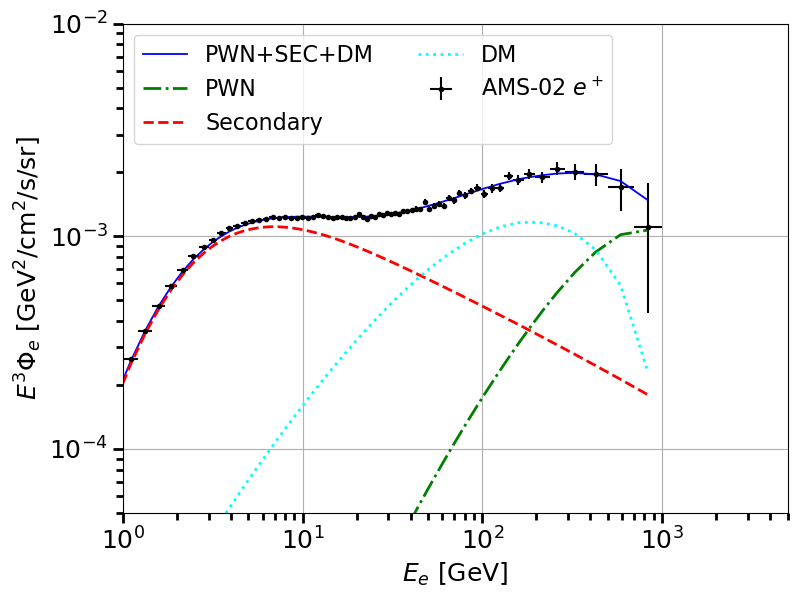
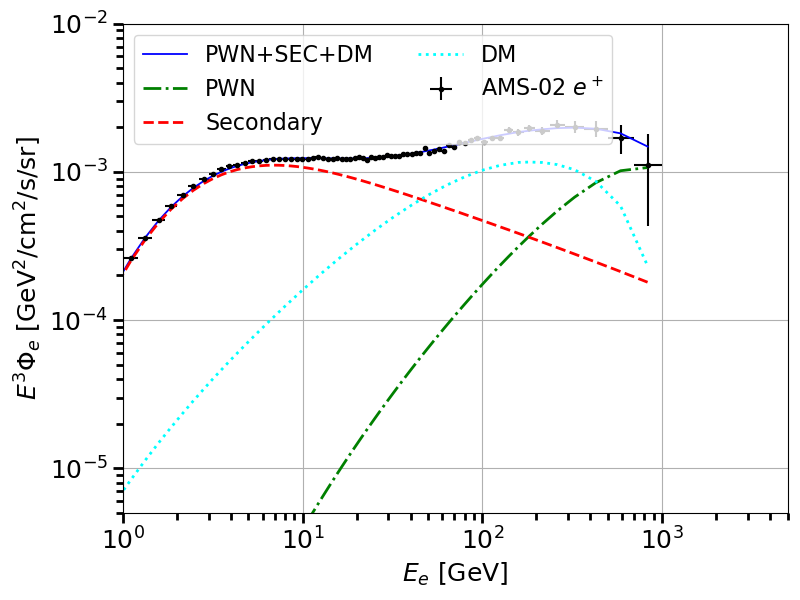
Finish debugging AMS_DM_SimpleFit.py--results look good.

diff --git a/PWNs_Positron_Excess/debug.py b/PWNs_Positron_Excess/debug.py
@@ -1,200 +1,94 @@
-from scipy.integrate import quad
-from math import *
-import matplotlib.pyplot as pl
-from scipy.interpolate import interp1d
-from scipy.interpolate import interp2d
+'''
+    Tao You
+    4/14/2021
+    --This file calculates a simple multichannel fit of positron product from dark matter annihilation to the AMS-02 data
+'''
 import numpy as np
-
-# Constants
-pigreco = 3.141592653589793
-sigmat = 0.665 * pow(10., -24.)  # cm^2
-cluce = 29979245800.  # cm/s
-ht = 6.582119 * pow(10., -16.) * pow(10., -9.)  # GEV*S
-hp = 4.13566 * 1e-15 * 1e-9  # GEV*S
-htc = ht * cluce
-kbol = 8.61734 * pow(10., -5.) * pow(10., -9.)
-echarge = 4.8032068e-10  # esu
-h_erg = 6.6260755e-27  # erg*s
-emass_g = 9.1093897e-28  # g
-Gauss = pow(6.24142 * pow(10., 11.) * pow(10., -9.), 1. / 2.)
-mc = 0.000511  # GeV
-kpc = pow(10., 3.) * 3.0856775 * pow(10., 18.)  # cm
-erg = 6.2415097e2  # GeV
-kyr = 24. * 60. * 60. * 365. * pow(10., 3.)  # s
-kb = 8.61734 * pow(10., -5.) * pow(10., -9.)  # GeV
-me = 0.000511  # GeV
-srdeg = pow(180. / np.pi, 2.)
-amu = 1.66054 * 1e3 * 1e-27  # g
-alphaf = 7.29735e-3
-rodot = 8.33 * kpc  # cm
-rhodot = 0.4  # GeV/cm^3
-
-table = np.loadtxt('DMfluxes_positrons_cleaned_NFW_MED_MF2.txt')
+import math
+import AMS_DM_model as DM
+import AMS_model as PWN
+from iminuit import Minuit
+import os
+import shutil
+import matplotlib.pyplot as pl
 
 
-###DENSITY###
+# Determine the channels we would like to fit
+#e 7, mu 10, tau 13, bb 16, tt 17, WW 20, ZZ 23, gamma 25, h 26
+channel_arr = np.array([16, 10, 13])
 
-def DMdensity_funcdist(dist, DMdensity):
-    rhos = DMdensity[0]
-    rs = DMdensity[1]
-    gammas = DMdensity[2]
-    profile = DMdensity[3]
+# Define necessary constants for PWN component
 
-    rho = 0.
-    if profile == 'gNFW':
-        # rho = (rhos/rhodot)/( pow(dist/rs,gammas)*pow(1.+dist/rs,3.-gammas) )
-        rho = (rhos) / (pow(dist / rs, gammas) * pow(1. + dist / rs, 3. - gammas))
-    if profile == 'NFW':
-        # rho = (rhos/rhodot)/( pow(dist/rs,1.0)*pow(1.+dist/rs,3.-1.0) )
-        rho = (rhos) / (pow(dist / rs, 1.0) * pow(1. + dist / rs, 3. - 1.0))
-    elif profile == 'Einasto':
-        # rho = (rhos/rhodot)*exp( (-2./gammas)*(pow(dist/rs,gammas) -1.) )
-        rho = (rhos) * exp((-2. / gammas) * (pow(dist / rs, gammas) - 1.))
-    elif profile == 'Burkert':
-        # rho = (rhos/rhodot)/(pow(1.+dist/rs,2.-gammas)*(1.+ pow(dist/rs,3.-gammas)))
-        rho = (rhos) / (pow(1. + dist / rs, 2. - gammas) * (1. + pow(dist / rs, 3. - gammas)))
+kpc = 3.09e18
+kyr = 1000*365*24*3600
+E_range = np.power(10.,np.arange(math.log10(1.),math.log10(1e5)+0.1,0.1)) #GeV
+d = 0.5*kpc #kpc
+T = 100*kyr #age in kyrs
+E_c = 1000 #cutoff energy in GeV
+gamma = 1.8
+tau_0 = 10*kyr #kyr
+E_dot = 1e35 #spin-down luminosity in erg/s
+eta = 0.1 # flux conversion rate
+delta = 0.408
+k_0 = kpc**2*0.0967/(1.0e6*365*24*3600)
+alpha = 2
+b_0 = 1e-16
 
-    return rho
-
-
-def DMdensity_funcintegral(dist, DMdensity):
-    rhos = DMdensity[0]
-    rs = DMdensity[1]
-    gammas = DMdensity[2]
-    profile = DMdensity[3]
-
-    rho = 0.
-    if profile == 'gNFW':
-        # rho = (rhos/rhodot)/( pow(dist/rs,gammas)*pow(1.+dist/rs,3.-gammas) )
-        rho = (rhos) / (pow(dist / rs, gammas) * pow(1. + dist / rs, 3. - gammas))
-    if profile == 'NFW':
-        # rho = (rhos/rhodot)/( pow(dist/rs,1.0)*pow(1.+dist/rs,3.-1.0) )
-        rho = (rhos) / (pow(dist / rs, 1.0) * pow(1. + dist / rs, 3. - 1.0))
-    elif profile == 'Einasto':
-        # rho = (rhos/rhodot)*exp( (-2./gammas)*(pow(dist/rs,gammas) -1.) )
-        rho = (rhos) * exp((-2. / gammas) * (pow(dist / rs, gammas) - 1.))
-    elif profile == 'Burkert':
-        # rho = (rhos/rhodot)/(pow(1.+dist/rs,2.-gammas)*(1.+ pow(dist/rs,3.-gammas)))
-        rho = (rhos) / (pow(1. + dist / rs, 2. - gammas) * (1. + pow(dist / rs, 3. - gammas)))
-
-    return rho * pow(dist, 2.)
+# Extract AMS-02 data
+tabledata = np.loadtxt('positron_ams02_19.dat')
+pos=tabledata[:,6]*np.power(tabledata[:,2],3.)*tabledata[:,13]/1.e4 #rescale the flux into 1/GeV/cm$^2$/s/sr
+epos= tabledata[:,2] #flux in 1/GeV/m$^2$/s/sr
+x_errorup_pos_val = tabledata[:,1]
+x_errordown_pos_val = tabledata[:,0]
+x_errorup_pos = np.subtract(x_errorup_pos_val, epos)
+x_errordown_pos = np.subtract(epos, x_errordown_pos_val)
+errortot_pos = np.power(tabledata[:,2],3.)*np.sqrt(tabledata[:,7]*tabledata[:,7]+tabledata[:,12]*tabledata[:,12])*tabledata[:,13]/1.e4
 
 
-def totmass(DMdensity, distmax):
-    return 4. * np.pi * quad(DMdensity_funcintegral, 0., distmax, args=(DMdensity))[0]
-    # https://www.khanacademy.org/math/multivariable-calculus/integrating-multivariable-functions/triple-integrals-a/a/triple-integrals-in-spherical-coordinates
+##############################################################
 
+# Now, we produce plots based upon our best fit values
 
-def func_interpolate(varval, variablevec, funcvec):
-    result = 0.
-    if varval < variablevec[0]:
-        result = 0.
-    elif varval > variablevec[len(variablevec) - 1]:
-        result = 0.
-    else:
-        Log10E_bin = log10(variablevec[1]) - log10(variablevec[0])
-        nbin = (log10(varval) - log10(variablevec[0])) / Log10E_bin
-        binval = int(nbin)
-        # print(fluxDM[binval],fluxDM[binval+1],EnergyDM[binval],EnergyDM[binval+1])
-        result = pow(10., log10(funcvec[binval]) + (log10(funcvec[binval + 1]) - log10(funcvec[binval])) * (
-                    log10(varval) - log10(variablevec[binval])) / (
-                                 log10(variablevec[binval + 1]) - log10(variablevec[binval])))
-        # print(Energy,EnergyDM[binval],EnergyDM[binval+1],fluxDM[binval],fluxDM[binval+1],result)
-    # print('Interpolate',varval,variablevec[binval],variablevec[binval+1],funcvec[binval],funcvec[binval+1],result)
-    return result
+DMchannel = 16
 
+par0=3.978098565255518
+par1=3.125231085769756
+par2=1.1255795776199276
+par3=259.40975349834264
+par4=1.4217021875190277
 
-def exctractcirellitable_fluxpositron(DMmass, DMchannel):
-    '''
-    This function returns the energy spectrum in 1/GeV for the particle production from DM annihilation.
-    DMmass: dark matter mass in GeV
-    DMchannel: dark matter annihilation channel
-        #e 7, mu 10, tau 13, bb 16, tt 17, WW 20, ZZ 23, gamma 25, h 26
-    particle: particle produced from the DM annihilation ('gammas' or 'positrons')
-    EWcorr: electroweak corrections ('Yes' or 'No')
-    '''
-    # mDM      halo   prop   MF    Log[10,E]   eL            eR            e             \[Mu]L        \[Mu]R        \[Mu]         \[Tau]L       \[Tau]R       \[Tau]        q             c             b             t             WL            WT            W             ZL            ZT            Z             g             \[Gamma]      h             \[Nu]e        \[Nu]\[Mu]    \[Nu]\[Tau]   V->e          V->\[Mu]      V->\[Tau]
+# Preparing for the plot
 
-    listenergies = 61
-    energy_vec = np.arange(-1., 5.1, 0.1)
+model_vec_tot = np.zeros(len(epos))
+model_vec_sec = np.zeros(len(epos))
+model_vec_pulsar = np.zeros(len(epos))
+model_vec_dm = np.zeros(len(epos))
 
-    energy = np.zeros(listenergies)
-    fluxDM = np.zeros(listenergies)
+for t in range(len(epos)):
+    model_vec_pulsar[t] = PWN.flux(epos[t], np.power(10, par0), b_0, d, E_c, par1, T)
+    model_vec_sec[t] = PWN.flux_secondary(epos[t], par2)
+    model_vec_dm[t] = np.power(epos[t],3.)*math.pow(10,par4)*DM.DM_spectrum(epos[t], par3,DMchannel)[0]
+    model_vec_tot[t] = model_vec_pulsar[t] + model_vec_sec[t] + model_vec_dm[t]
 
-    massvec = []
-    for t in range(len(table)):
-        if t % listenergies == 0:
-            massvec.append(table[t, 0])
-    massvec = np.array(massvec)
-
-    flux = []
-    for t in range(len(table)):
-        # print(table[t,DMchannel])
-        flux.append(table[t, DMchannel])
-
-    f = interp2d(massvec, energy_vec, flux, kind='linear')
-
-    for t in range(len(energy_vec)):
-        fluxDM[t] = f(DMmass, energy_vec[t])
-
-    return np.power(10., energy_vec), pow(DMmass, -2.) * fluxDM / (log(10.) * np.power(10., energy_vec))
-    # return np.power(10.,energy_vec),fluxDM
-
-
-def DM_spectrum(Energy, DMmass, DMchannel):
-    # this function creates the flux, annihilation cross section 10^-26;
-    EnergyDM, fluxDM = exctractcirellitable_fluxpositron(DMmass, DMchannel)
-    for t in range(len(EnergyDM)):
-        if fluxDM[t] > 0.:
-            fluxDM[t] = fluxDM[t]
-        else:
-            fluxDM[t] = 1e-30
-
-    dNdE = 0.
-    dNdE_int = 0.
-    if Energy < DMmass:
-        f = interp1d(EnergyDM, fluxDM, kind='linear')
-        dNdE = func_interpolate(Energy, EnergyDM, fluxDM)
-        return dNdE, f(Energy)
-    else:
-        return dNdE, dNdE_int
-
-
-# mDM      halo   prop   MF    Log[10,E]   eL            eR            e             \[Mu]L        \[Mu]R        \[Mu]         \[Tau]L       \[Tau]R       \[Tau]        q             c             b             t             WL            WT            W             ZL            ZT            Z             g             \[Gamma]      h             \[Nu]e        \[Nu]\[Mu]    \[Nu]\[Tau]   V->e          V->\[Mu]      V->\[Tau]
-# table = np.loadtxt('AfterPropagation_Ann_positrons.dat')
-# fwrite = open('DMfluxes_positrons_cleaned_NFW_MED_MF2.txt', 'w')
-# for t in range(len(table)):
-# for t in range(1000):
-# if table[t,1]==100 and table[t,2]==200 and table[t,3]==200:
-# for u in range(len(table[t])):
-# fwrite.write("%.3e  "%table[t,u])
-# fwrite.write(" \n")
-# fwrite.close()
-
-Mdm = 200.
-f_vec = np.power(10., np.arange(log10(1e-1), log10(Mdm), 0.02))
-dNdE1_vec = np.zeros(len(f_vec))
-dNdE2_vec = np.zeros(len(f_vec))
-dNdE3_vec = np.zeros(len(f_vec))
-dNdE4_vec = np.zeros(len(f_vec))
-dNdE5_vec = np.zeros(len(f_vec))
-dNdE6_vec = np.zeros(len(f_vec))
-dNdE7_vec = np.zeros(len(f_vec))
-dNdE8_vec = np.zeros(len(f_vec))
-dNdE9_vec = np.zeros(len(f_vec))
-
-# e 7, mu 10, tau 13, bb 16, tt 17, WW 20, ZZ 23, gamma 25, h 26
-
-for t in range(len(f_vec)):
-    dNdE1_vec[t] = np.power(f_vec[t], 3.) * DM_spectrum(f_vec[t], Mdm, 7)[0]
-    dNdE2_vec[t] = np.power(f_vec[t], 3.) * DM_spectrum(f_vec[t], Mdm, 10)[0]
-    dNdE3_vec[t] = np.power(f_vec[t], 3.) * DM_spectrum(f_vec[t], Mdm, 13)[0]
-    dNdE4_vec[t] = np.power(f_vec[t], 3.) * DM_spectrum(f_vec[t], Mdm, 16)[0]
-    dNdE5_vec[t] = np.power(f_vec[t], 3.) * DM_spectrum(f_vec[t], Mdm, 17)[0]
-    dNdE6_vec[t] = np.power(f_vec[t], 3.) * DM_spectrum(f_vec[t], Mdm, 20)[0]
-    dNdE7_vec[t] = np.power(f_vec[t], 3.) * DM_spectrum(f_vec[t], Mdm, 23)[0]
-    dNdE8_vec[t] = np.power(f_vec[t], 3.) * DM_spectrum(f_vec[t], Mdm, 25)[0]
-    dNdE9_vec[t] = np.power(f_vec[t], 3.) * DM_spectrum(f_vec[t], Mdm, 26)[0]
-
-print((DM_spectrum(f_vec[t], Mdm, 7)))[0]
-
+fig = pl.figure(figsize=(8, 6))
+pl.rcParams['font.size'] = '18'
+pl.plot(epos, model_vec_tot, lw=1.3, ls='-', color="blue", label='PWN+SEC+DM')
+pl.plot(epos, model_vec_pulsar, lw=2.0, ls='-.', color="green", label='PWN')
+pl.plot(epos, model_vec_sec, lw=2.0, ls='--', color="red", label='Secondary')
+pl.plot(epos, model_vec_dm, lw=2.0, ls=':', color="cyan", label='DM')
+pl.errorbar(epos, pos, xerr=[x_errordown_pos, x_errorup_pos], yerr=errortot_pos, fmt='.', color="black",
+            label="AMS-02 $e^+$")
+pl.ylabel(r'$E^3 \Phi_e$ [GeV$^2$/cm$^2$/s/sr]', fontsize=18)
+pl.xlabel(r'$E_e$ [GeV]', fontsize=18)
+pl.axis([1., 5.e3, 5e-6, 1e-2])
+pl.xticks(fontsize=18)
+pl.yticks(fontsize=18)
+pl.tick_params('both', length=7, width=2, which='major')
+pl.tick_params('both', length=5, width=2, which='minor')
+pl.grid(True)
+pl.yscale('log')
+pl.xscale('log')
+pl.legend(loc=2, prop={'size': 16}, numpoints=1, scatterpoints=1, ncol=2)
+fig.tight_layout(pad=0.5)
+# pl.savefig("ATNF_pulsar_flux.pdf")
+pl.savefig("DM_multichannel_%s.png"%DMchannel)

diff --git a/PWNs_Positron_Excess/AMS_DM_model.py b/PWNs_Positron_Excess/AMS_DM_model.py
@@ -10,6 +10,8 @@ import matplotlib.pyplot as pl
 from scipy.interpolate import interp1d
 from scipy.interpolate import interp2d
 import numpy as np
+import numba
+from numba import jit
 
 #Constants
 pigreco = 3.141592653589793
@@ -36,6 +38,8 @@ rodot = 8.33*kpc #cm
 rhodot = 0.4 #GeV/cm^3
 
 table = np.loadtxt('DMfluxes_positrons_cleaned_NFW_MED_MF2.txt')
+
+@jit(nopython=True)
 
 def DMdensity_funcdist(dist,DMdensity):
 

diff --git a/PWNs_Positron_Excess/AMS_model.py b/PWNs_Positron_Excess/AMS_model.py
@@ -11,6 +11,8 @@ from iminuit import Minuit
 import numpy as np
 from scipy.integrate import quad
 import math
+import numba
+from numba import jit
 
 #constants
 pigreco = 3.141592653589793
@@ -56,6 +58,8 @@ alpha = 2
 b_0 = 1e-16
 
 # necessary functions to calculate positron energy flux as a function of energy
+
+@jit(nopython=True)
 def integrand(E, delta, k_0, alpha):
     return 4 * k_0 / b_0 * E ** (delta - alpha)
 

diff --git a/PWNs_Positron_Excess/AMS_DM_SimpleFit.py b/PWNs_Positron_Excess/AMS_DM_SimpleFit.py
@@ -114,7 +114,7 @@ for DMchannel in channel_arr:
                 label="AMS-02 $e^+$")
     pl.ylabel(r'$E^3 \Phi_e$ [GeV$^2$/cm$^2$/s/sr]', fontsize=18)
     pl.xlabel(r'$E_e$ [GeV]', fontsize=18)
-    pl.axis([1., 5.e3, 5e-5, 1e-2])
+    pl.axis([1., 5.e3, 5e-6, 1e-2])
     pl.xticks(fontsize=18)
     pl.yticks(fontsize=18)
     pl.tick_params('both', length=7, width=2, which='major')
